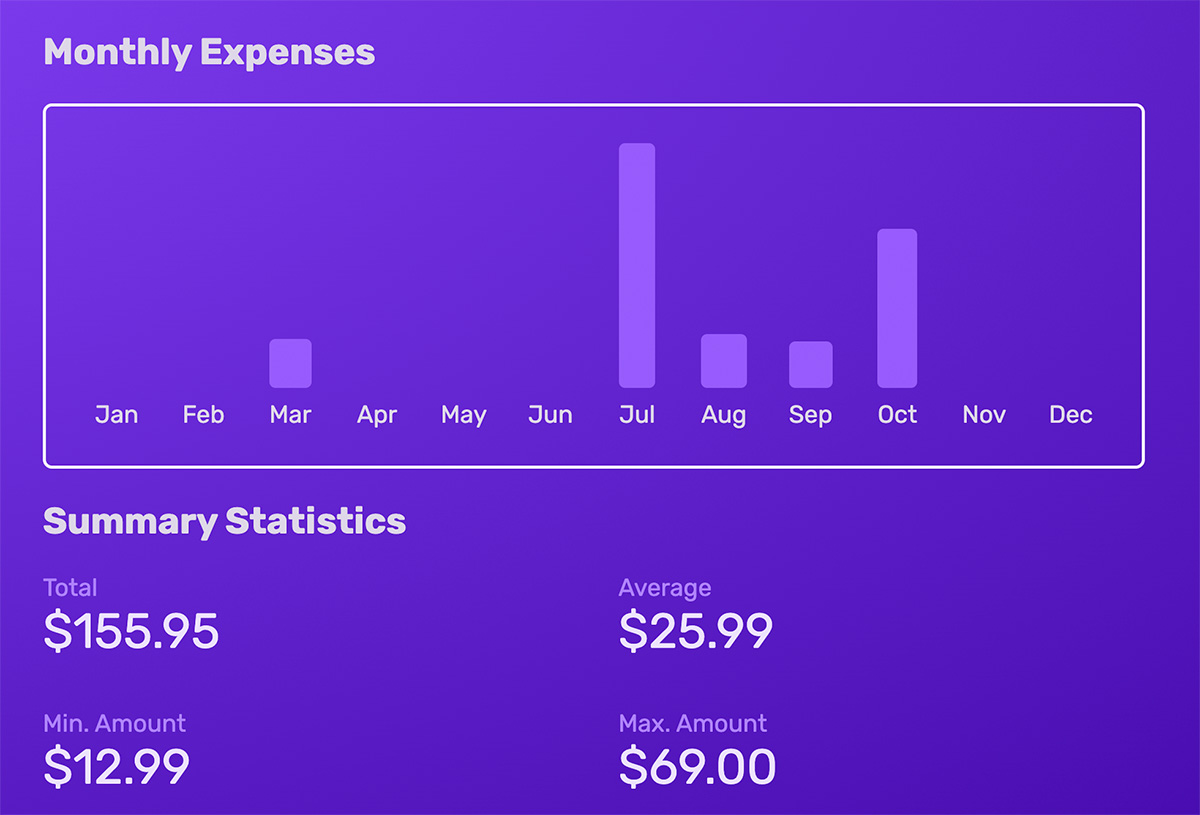
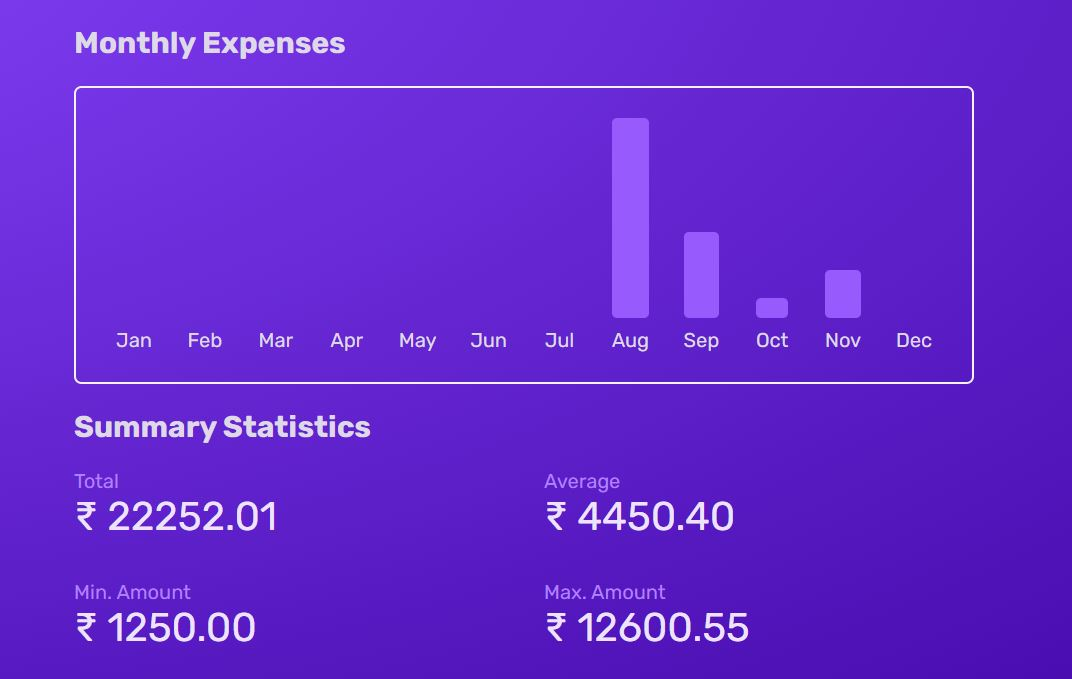
routes completed

diff --git a/app/routes/__expenses/expenses.analysis.jsx b/app/routes/__expenses/expenses.analysis.jsx
@@ -1,24 +1,47 @@
+import { json } from '@remix-run/node';
+import { useLoaderData, useCatch } from '@remix-run/react';
+
 import ExpenseStatistics from '~/components/expenses/ExpenseStatistics';
 import Chart from '~/components/expenses/Chart';
+import { getExpenses } from '~/db/expenses.server';
+import Error from '~/components/util/Error';
 
-const DUMMY_EXPENSES = [
-  {
-    id: 'e1',
-    title: 'My First Expenses',
-    amount: 13.67,
-    date: new Date().toISOString()
-  },
-  {
-    id: 'e3',
-    title: 'My Seond Expenses',
-    amount: 19.85,
-    date: new Date().toISOString()
-  }
-];
 
 export default function AnalysisPage() {
+  const expenses = useLoaderData();
+  
   return <main>
-    <Chart expenses={DUMMY_EXPENSES} />
-    <ExpenseStatistics expenses={DUMMY_EXPENSES} />
+    <Chart expenses={expenses} />
+    <ExpenseStatistics expenses={expenses} />
+  </main>;
+}
+
+export async function loader() {
+  try {
+    const expenses = await getExpenses();
+
+    if(!expenses || expenses.length <= 0) {
+      throw json({message: 'Could not load the expenses!'}, {
+        status: 404,
+        statusText: 'Expenses Not Found!'
+      });
+    }
+    return expenses;
+
+  } catch (error) {
+    console.log(error);
+    throw json({message: 'Failed loading the expenses!'}, {
+      status: 404,
+      statusText: 'Expenses Not Found!'
+    });
+  }
+}
+
+export function CatchBoundary() {
+  const caughtResp = useCatch();
+  return <main title={caughtResp.statusText}>
+    <Error>
+      {caughtResp.data?.message || 'Oops!, Unable to load expenses, Please try again after sometime.'}
+    </Error>
   </main>;
 }

diff --git a/app/routes/__expenses/expenses.jsx b/app/routes/__expenses/expenses.jsx
@@ -23,6 +23,7 @@ import { getExpenses } from '~/db/expenses.server';
 
 export default function ExpensesLayout() {
   const expenses = useLoaderData();
+  const hasExpenses = expenses && expenses.length > 0;
 
   return <>
     <Outlet />
@@ -37,7 +38,11 @@ export default function ExpensesLayout() {
           Load Raw Data
         </a>
       </section>
-      <ExpensesList expenses={expenses} />
+      {hasExpenses && <ExpensesList expenses={expenses} />}
+      {!hasExpenses && <section id='no-expenses'>
+        <h1>No Expenses Found!</h1>
+        <p>Start <Link to='add'> Adding Some ...</Link></p>
+        </section>}
     </main>
   </>;
 }
@@ -46,12 +51,12 @@ export async function loader({request, params}) {
   try {
     const expenses = await getExpenses();
 
-    if (!expenses || expenses.length === 0) {
-      return json({message: 'Coud not find any expenses!'}, {
-        status: 404,
-        statusText: 'No expenses Found!'
-      });
-    }
+    // if (!expenses || expenses.length === 0) {
+    //   return json({message: 'Coud not find any expenses!'}, {
+    //     status: 404,
+    //     statusText: 'No expenses Found!'
+    //   });
+    // }
 
     return expenses;
     // return json(expenses);
@@ -59,5 +64,10 @@ export async function loader({request, params}) {
     console.log(error);
     throw new Error('Oops!, Failed loading your expenses!');
   }
+}
+
+
+export function CatchBoundary() {
+
 }
 

diff --git a/app/components/expenses/ExpenseForm.jsx b/app/components/expenses/ExpenseForm.jsx
@@ -11,7 +11,7 @@ function ExpenseForm() {
   // const expenseData = useLoaderData();
   const params = useParams();
   const matches = useMatches();
-  // useMatches is to get the data from parant loader (not to send second get req. to db)
+  // useMatches is to get the data from 'parant loader' (not to send second get req. to db) -> only possible if parent has data, not sibling
   // console.log(matches); // each active routes with id and data will be displayed (id will be in routes folder structure)
   const expensesDate = matches.find(match => match.id === 'routes/__expenses/expenses').data;
   const expenseData = expensesDate.find(expense => expense.id === params.id);
@@ -24,6 +24,10 @@ function ExpenseForm() {
       // action: 'expenses/add',
       method: htmlMethod
     });
+  }
+
+  if(params.id && !expenseData) {
+    return <p> Invalid Expense ID.</p>;
   }
 
   const defaultValue = expenseData

diff --git a/app/routes/expenses.raw.js b/app/routes/expenses.raw.js
@@ -1,0 +1,13 @@
+// resources route
+
+import { getExpenses } from '~/db/expenses.server';
+
+export async function loader() {
+  try {
+    const expenses = await getExpenses();
+    return expenses;
+  } catch (error) {
+    console.log(erroe);
+    throw new Error('Failed to load Raw data, please try again after sometime!');
+  }
+}

diff --git a/app/routes/__expenses/expenses/index.jsx b/app/routes/__expenses/expenses/index.jsx
@@ -1,3 +1,4 @@
 export default function ExpensesPage() {
-  return <h1>Expenses Page Index</h1>;
+  // return <h1>Expenses Page Index</h1>; // add jsx to display only at expenses index page.
+  return null;
 }
